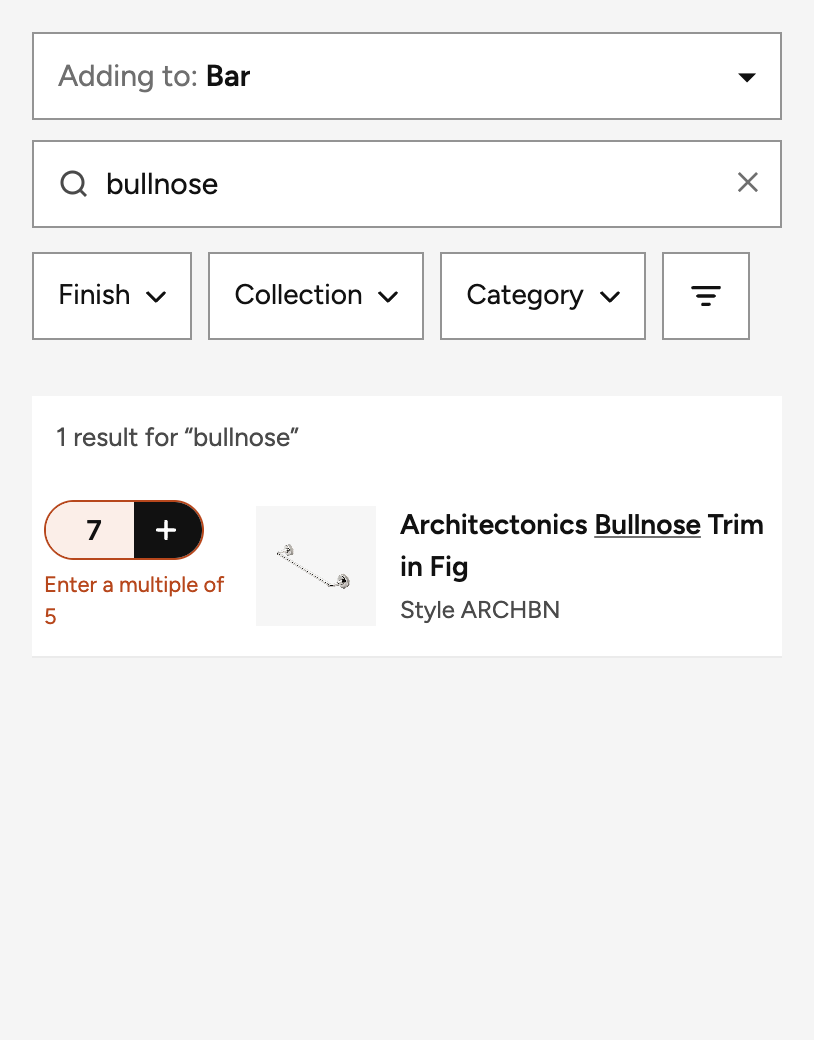
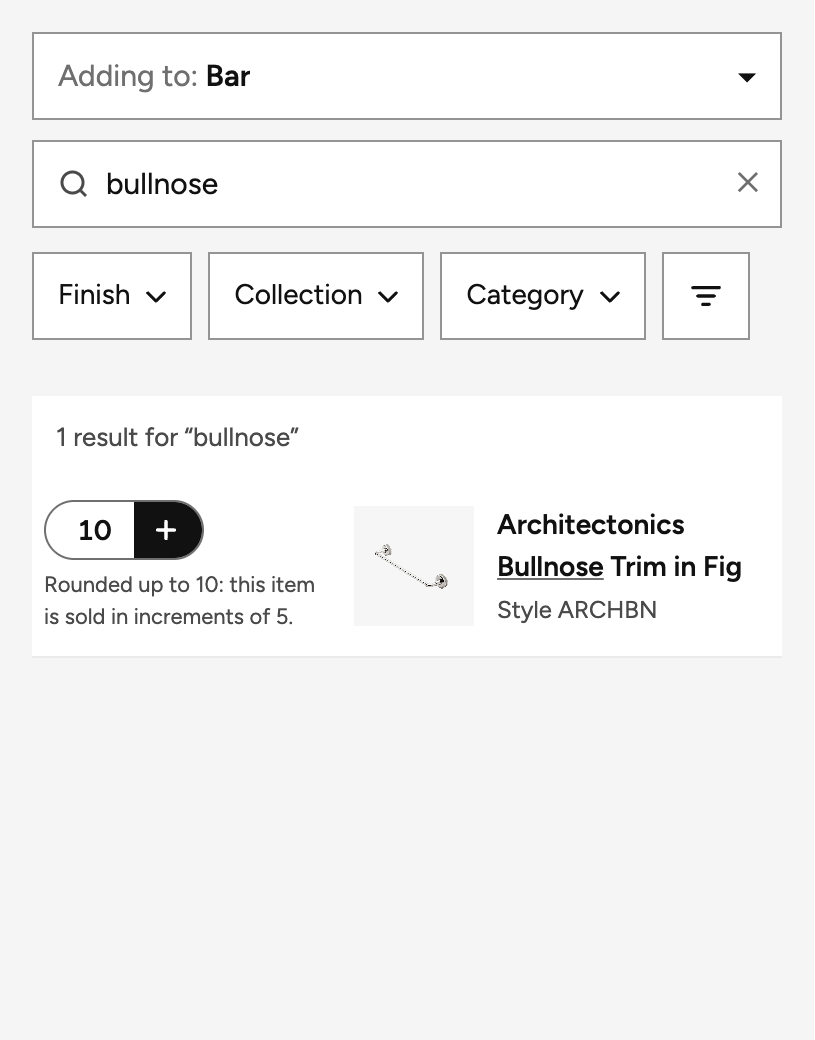
Round typed quantities up to the next multiple, as QOM-2961 does
Result rows and quote lines now round a typed quantity that isn't a whole
multiple up to the next one, with QOM-2961's note ("Rounded up to 30 square
feet: this item is sold in increments of 10 square feet."). Helper text uses
QOM-2958's wording. Saved quantities that are already wrong are still flagged.
Retake the S-09 and U-01 spec screenshots.

Changed region(s): [[0.4601, 0.4923, 0.9509, 0.6154], [0.0613, 0.5231, 0.4294, 0.6154], [0.092, 0.4923, 0.1534, 0.5231]]

diff --git a/qom-product-search-prototype-v2.html b/qom-product-search-prototype-v2.html
@@ -1907,12 +1907,17 @@ const kitBox=(r,l,p)=>kitClosed(r,l)?"":`<div class="kitbox"><div class="kithead
 const UNIT_SHORT={"square feet":"sq ft"};
 const openTrays=new Set(); // result rows whose UOM tray is open
 const QTY_ERR={k:null,t:0}; // the line whose typed quantity was just rejected
+// QOM-2961: a typed quantity that isn't a whole multiple rounds up to the next one and says so; helper wording follows QOM-2958
+const ROUNDED=new Map(), RROUNDED=new Set(); // quote lines (room|sku → the rounded quantity) and result rows (sku) whose typed quantity was rounded up
+const unitWord=p=>p.uom!=="each"?" "+p.uom:"";
+const soldIn=p=>`Sold in increments of ${p.mult}${unitWord(p)}`;
+const roundedNote=(p,n)=>`Rounded up to ${n}${unitWord(p)}: this item is sold in increments of ${p.mult}${unitWord(p)}.`;
 function setQtyErr(k){ clearTimeout(QTY_ERR.t); QTY_ERR.k=k; if(!k) return;
   QTY_ERR.t=setTimeout(()=>{ QTY_ERR.k=null; const msg=document.querySelector(".qty .help.typed"), cell=msg?.closest(".qty"), inp=cell?.querySelector("[data-qty]"); if(!inp||document.activeElement===inp) return; // still typing: it goes on the next redraw
     const [room,sku]=inp.dataset.qty.split("|"), r=S.quote.rooms.find(x=>x.name===room), l=r?.lines.find(x=>x.sku===sku); if(l) cell.outerHTML=qtyCell(r,l,CAT.find(x=>x.sku===sku),msg.id); },4000); }
 const qtyCell=(r,l,p,id)=>{
-  const m=p.mult, bad=l.qty%m!==0, key=esc(r.name)+"|"+esc(l.sku), unitShown=p.uom!=="each", atMin=l.qty===m;
-  const help=QTY_ERR.k===r.name+"|"+l.sku?`<span class="help err typed" id="${id}" role="alert">Enter a whole number, 1 or more</span>`:bad?`<span class="help err" id="${id}" role="alert">Enter a multiple of ${m}</span>`:(m>1?`<span class="help" id="${id}">Sold in ${m}${unitShown?" "+(UNIT_SHORT[p.uom]||p.uom):"s"}</span>`:"");
+  const m=p.mult, bad=l.qty%m!==0, key=esc(r.name)+"|"+esc(l.sku), atMin=l.qty===m, rounded=!bad&&ROUNDED.get(r.name+"|"+l.sku)===l.qty;
+  const help=QTY_ERR.k===r.name+"|"+l.sku?`<span class="help err typed" id="${id}" role="alert">Enter a whole number, 1 or more</span>`:bad?`<span class="help err" id="${id}" role="alert">Enter a multiple of ${m}</span>`:rounded?`<span class="help" id="${id}" role="status">${esc(roundedNote(p,l.qty))}</span>`:(m>1?`<span class="help" id="${id}">${esc(soldIn(p))}</span>`:""); // "Enter a multiple" is only for a saved quantity that's already wrong: QOM-2961 doesn't change those on load
   const first=atMin
     ? `<button type="button" class="sbtn" data-step="${key}|-1" aria-label="Remove ${esc(p.name)} from the quote" title="Remove from quote">${ICON.trash}</button>`
     : `<button type="button" class="sbtn" data-step="${key}|-1" aria-label="Decrease quantity of ${esc(p.name)}">${ICON.minus}</button>`;
@@ -2271,7 +2276,8 @@ function search(){ // the spinner only appears if a search takes longer than 300
 // result row: type how many, then Add; same typing rules as a quote line
 const addCell=(p,canAdd,blocked)=>{
   const m=p.mult, q=S.rq[p.sku]??m, bad=q%m!==0, k=esc(p.sku), id="rh_"+k, unitShown=p.uom!=="each", dis=canAdd?"":" disabled";
-  const help=!canAdd?"":bad?`<span class="help err" id="${id}" role="alert">Enter a multiple of ${m}</span>`:(m>1?`<span class="help" id="${id}">Sold in ${m}${unitShown?" "+(UNIT_SHORT[p.uom]||p.uom):"s"}</span>`:"");
+  const rounded=RROUNDED.has(p.sku)&&S.rq[p.sku]!=null;
+  const help=!canAdd?"":bad?`<span class="help err" id="${id}" role="alert">Enter a multiple of ${m}</span>`:rounded?`<span class="help" id="${id}" role="status">${esc(roundedNote(p,q))}</span>`:(m>1?`<span class="help" id="${id}">${esc(soldIn(p))}</span>`:"");
   return `<div class="addcell"><div class="addpill${bad&&canAdd?" bad":""}${canAdd?"":" off"}"><input type="number" inputmode="numeric" min="${m}" step="${m}" value="${q}" aria-label="Quantity of ${esc(p.name)} to add${unitShown?" in "+esc(p.uom):""}" ${help?`aria-describedby="${id}" `:""}aria-invalid="${bad}" data-rqty="${k}"${dis}><button type="button" class="add" data-add="${k}"${dis} aria-label="Add ${q} of ${esc(p.name)} in ${esc(p.fin)} to ${esc(S.room||'quote')}" title="${canAdd?'Add to '+esc(S.room):(blocked?'Can’t be added':'Choose a room first')}">${ICON.plus}</button></div>${help}</div>`;
 };
 function addLine(sku){
@@ -2279,8 +2285,9 @@ function addLine(sku){
   const why = p.whst===50 ? (p.wh||"Not stocked in this warehouse")+" (warehouse status "+p.whst+")" : (p.price==null ? "Waiting on a price" : null);
   if(why){ S.notice="Not added: "+p.name+" in "+p.fin+". "+why+". This is only known when the item is added."; renderResults(); return; }
   S.notice=null;
-  const n=S.rq[sku]??p.mult; delete S.rq[sku]; // the row goes back to one sold-in amount after adding
-  const ex=r.lines.find(l=>l.sku===sku); if(ex) ex.qty+=n; else r.lines.push({sku,qty:n,unit:S.view==="commercial"?listOf(p):p.price});
+  const n=S.rq[sku]??p.mult, wasRounded=RROUNDED.delete(sku); delete S.rq[sku]; // the row goes back to one sold-in amount after adding
+  const ex=r.lines.find(l=>l.sku===sku); if(wasRounded&&!ex) ROUNDED.set(r.name+"|"+sku,n); // a new line keeps the "Rounded up" note
+  if(ex) ex.qty+=n; else r.lines.push({sku,qty:n,unit:S.view==="commercial"?listOf(p):p.price});
   showToast(ex ? `✓ ${p.name} in ${p.fin}: quantity now ${ex.qty} in ${r.name}` : `✓ Added ${p.name} in ${p.fin} to ${r.name}`, "ok");
   const crN=crMissing(r,r.lines.find(l=>l.sku===sku)).length; if(crN){ CR.open=r.name+"|"+sku; crSay(`${crN} part${crN===1?"":"s"} needed to install ${p.name}`); } // concept QOM-2561: offer the parts under the new line; focus stays in search
   S.collapsedFor=null; S.dirty=true; S.recent=[sku,...S.recent.filter(x=>x!==sku)].slice(0,4); renderQuote(); renderRoomMenu(); renderResults();
@@ -2342,7 +2349,7 @@ document.addEventListener("click",e=>{
   if(t.dataset.tray){ const k=t.dataset.tray; openTrays.has(k)?openTrays.delete(k):openTrays.add(k); renderResults(); [...document.querySelectorAll(`[data-tray="${CSS.escape(k)}"]`)].find(b=>b.offsetParent)?.focus(); return; }
   if(t.dataset.kit){ const [room,sku]=t.dataset.kit.split("|"); const key=sku+room; S.kitClosed=S.kitClosed.includes(key)?S.kitClosed.filter(x=>x!==key):[...S.kitClosed,key]; renderQuote(); document.querySelector(`[data-kit="${CSS.escape(t.dataset.kit)}"]`)?.focus(); return; }
   if(t.dataset.step){ const [room,sku,dir]=t.dataset.step.split("|"); const rm=S.quote.rooms.find(r=>r.name===room); const idx=rm.lines.findIndex(x=>x.sku===sku); const l=rm.lines[idx]; const p=CAT.find(x=>x.sku===sku), m=p.mult;
-    if(QTY_ERR.k===room+"|"+sku) setQtyErr(null);
+    if(QTY_ERR.k===room+"|"+sku) setQtyErr(null); ROUNDED.delete(room+"|"+sku);
     if(dir==="-1"&&l.qty===m){ dropLine(rm,idx,p.name); return; } // at the minimum, the minus is a trash can
     l.qty = dir==="1" ? (Math.floor(l.qty/m)+1)*m : Math.max(m,(Math.ceil(l.qty/m)-1)*m); // steps by the sold-in multiple; snaps a typed odd value to the next valid one
     S.dirty=true; renderQuote(); document.querySelector(`[data-step="${CSS.escape(t.dataset.step)}"]`)?.focus(); return; }
@@ -2472,14 +2479,14 @@ document.addEventListener("change",e=>{
   if(t.dataset.sf){ const [room,sku]=t.dataset.key.split("|"); const l=S.quote.rooms.find(x=>x.name===room)?.lines.find(x=>x.sku===sku); if(l){ l[t.dataset.sf]=t.value.trim(); shipDirty(); if(t.dataset.sf==="rdd"){ const n=document.querySelector(`[data-cddnote="${CSS.escape(t.dataset.key)}"]`); if(n) n.outerHTML=cddNote({name:room},l,true); } } return; }
   if(t.id==="showDisc"){ S.disc=t.checked; search(); return; }
   if(t.id==="showPrice"){ S.price=t.checked; renderResults(); return; }
-  if(t.dataset.rqty){ const sku=t.dataset.rqty, n=parseInt(t.value,10), p=CAT.find(x=>x.sku===sku), m=p.mult; if(n>0) S.rq[sku]=n; const q=S.rq[sku]??m; t.value=q;
+  if(t.dataset.rqty){ const sku=t.dataset.rqty, n=parseInt(t.value,10), p=CAT.find(x=>x.sku===sku), m=p.mult, up=n>0&&n%m!==0; if(n>0&&n!==S.rq[sku]){ S.rq[sku]=up?Math.ceil(n/m)*m:n; up?RROUNDED.add(sku):RROUNDED.delete(sku); } const q=S.rq[sku]??m; t.value=q; // QOM-2961: rounds up to the next multiple
     // updated in place, not re-rendered, so typing a number and then clicking Add still lands on the button
     const cell=t.closest(".addcell"), bad=q%m!==0, help=cell.querySelector(".help"); cell.querySelector(".addpill").classList.toggle("bad",bad); t.setAttribute("aria-invalid",String(bad));
-    if(help){ help.classList.toggle("err",bad); help.textContent=bad?`Enter a multiple of ${m}`:`Sold in ${m}${p.uom!=="each"?" "+(UNIT_SHORT[p.uom]||p.uom):"s"}`; } else if(bad) cell.insertAdjacentHTML("beforeend",`<span class="help err" role="alert">Enter a multiple of ${m}</span>`);
+    if(help){ help.classList.toggle("err",bad); if(RROUNDED.has(sku)) help.setAttribute("role","status"); help.textContent=bad?`Enter a multiple of ${m}`:RROUNDED.has(sku)?roundedNote(p,q):soldIn(p); } else if(bad) cell.insertAdjacentHTML("beforeend",`<span class="help err" role="alert">Enter a multiple of ${m}</span>`);
     cell.querySelector(".add").setAttribute("aria-label",`Add ${q} of ${p.name} in ${p.fin} to ${S.room||"quote"}`);
     if(document.activeElement===t) t.select(); return; }
   if(t.dataset.qty){ const [room,sku]=t.dataset.qty.split("|"); const l=S.quote.rooms.find(r=>r.name===room).lines.find(x=>x.sku===sku); const v=t.value.trim(), ok=/^\d+$/.test(v)&&+v>=1, keep=document.activeElement===t; // Enter keeps the cursor here; tabbing or clicking away does not
-    if(ok && +v!==l.qty){ l.qty=+v; S.dirty=true; } // empty, 0, negative or decimal puts the old number back with a message; the trash button is how a line is removed
+    if(ok&&+v!==l.qty){ const m=CAT.find(x=>x.sku===sku).mult, n=Math.ceil(+v/m)*m; n!==+v?ROUNDED.set(t.dataset.qty,n):ROUNDED.delete(t.dataset.qty); if(n!==l.qty){ l.qty=n; S.dirty=true; } } // QOM-2961: a value that isn't a whole multiple rounds up to the next one, with a note on the line // empty, 0, negative or decimal puts the old number back with a message; the trash button is how a line is removed
     setQtyErr(ok?null:t.dataset.qty);
     renderQuote(); if(keep){ const ni=document.querySelector(`[data-qty="${CSS.escape(t.dataset.qty)}"]`); ni?.focus(); ni?.select(); } }
 });

diff --git a/prd-trace.md b/prd-trace.md
@@ -63,7 +63,7 @@ PRD: `prd.md` (last updated Nov 5, 2026). Prototype: `qom-product-search-prototy
 - **Expanded (full-screen) quote view** with a Rooms side panel: likely PRD gap. It's a layout answer to FR-20 that the PRD doesn't name.
 - **Commercial view pricing** (locked margin, blended margin input, cost breakdown, apply-to-other-instances toast): outside this PRD (QOM-2566, QOM-2688).
 - **Required-parts concept**: the PRD does cover it, as FR-14 (P2, proposed P1). Differences are in contradiction 5.
-- **Quantity box and sold-in multiples on result rows** ("Enter a multiple of 10"): likely PRD gap.
+- **Quantity box and sold-in multiples on result rows** ("Sold in increments of 10 square feet"; a typed amount that isn't a whole multiple rounds up with "Rounded up to 30 square feet: …", as QOM-2961 does, on rows and quote lines): likely PRD gap.
 - **"Show other finishes (n)" link** when the finish filter hides matching products: likely PRD gap (FR-3 behavior).
 - **Finish families, "Most used" groups, and a two-level Category filter with product types**: likely PRD gap (FR-15), and an NFR-4 question.
 - **Line type filter** under More filters: likely PRD gap (not in the FR-12 list).
